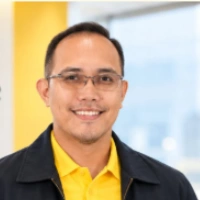
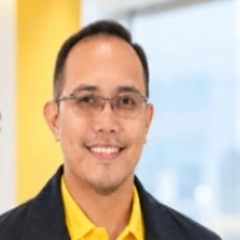
Add files via upload

diff --git a/index.html b/index.html
@@ -249,9 +249,9 @@ h2{
 .aboutphoto{width:100%;height:100%;object-fit:contain;object-position:center bottom;display:block}
 .about h2{font-size:clamp(36px,4vw,52px);margin-top:9px;margin-bottom:9px}
 .about-name{display:flex;align-items:center;gap:16px;margin:9px 0 9px}
-.about-thumb{width:76px;height:76px;border-radius:50%;object-fit:cover;object-position:center;display:block;flex:0 0 76px;box-shadow:0 8px 20px rgba(18,59,93,.12);border:3px solid #fff;outline:1px solid var(--line)}
+.about-thumb{width:80px;height:80px;border-radius:50%;object-fit:cover;object-position:center center;display:block;flex:0 0 80px;box-shadow:0 8px 20px rgba(18,59,93,.12);border:3px solid #fff;outline:1px solid var(--line)}
 .about-name h2{margin:0}
-@media(max-width:520px){.about-name{gap:13px}.about-thumb{width:64px;height:64px;flex-basis:64px}}
+@media(max-width:520px){.about-name{gap:13px}.about-thumb{width:68px;height:68px;flex-basis:68px}}
 
 .about > div:last-child > p{max-width:60ch}
 .quote{background:var(--cream);border-left:5px solid var(--gold);padding:19px 22px;border-radius:10px;margin-top:23px;line-height:1.6}
